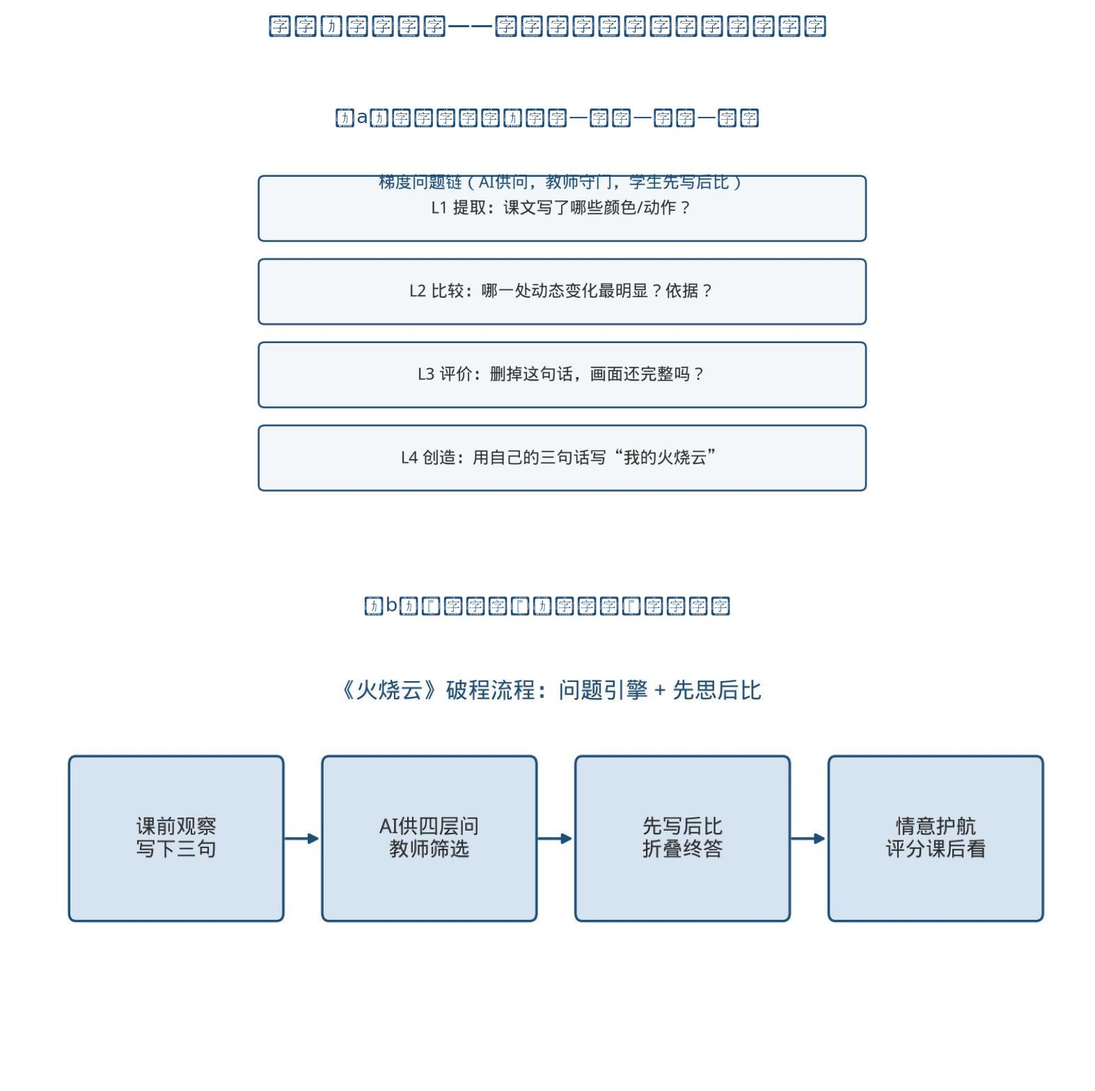
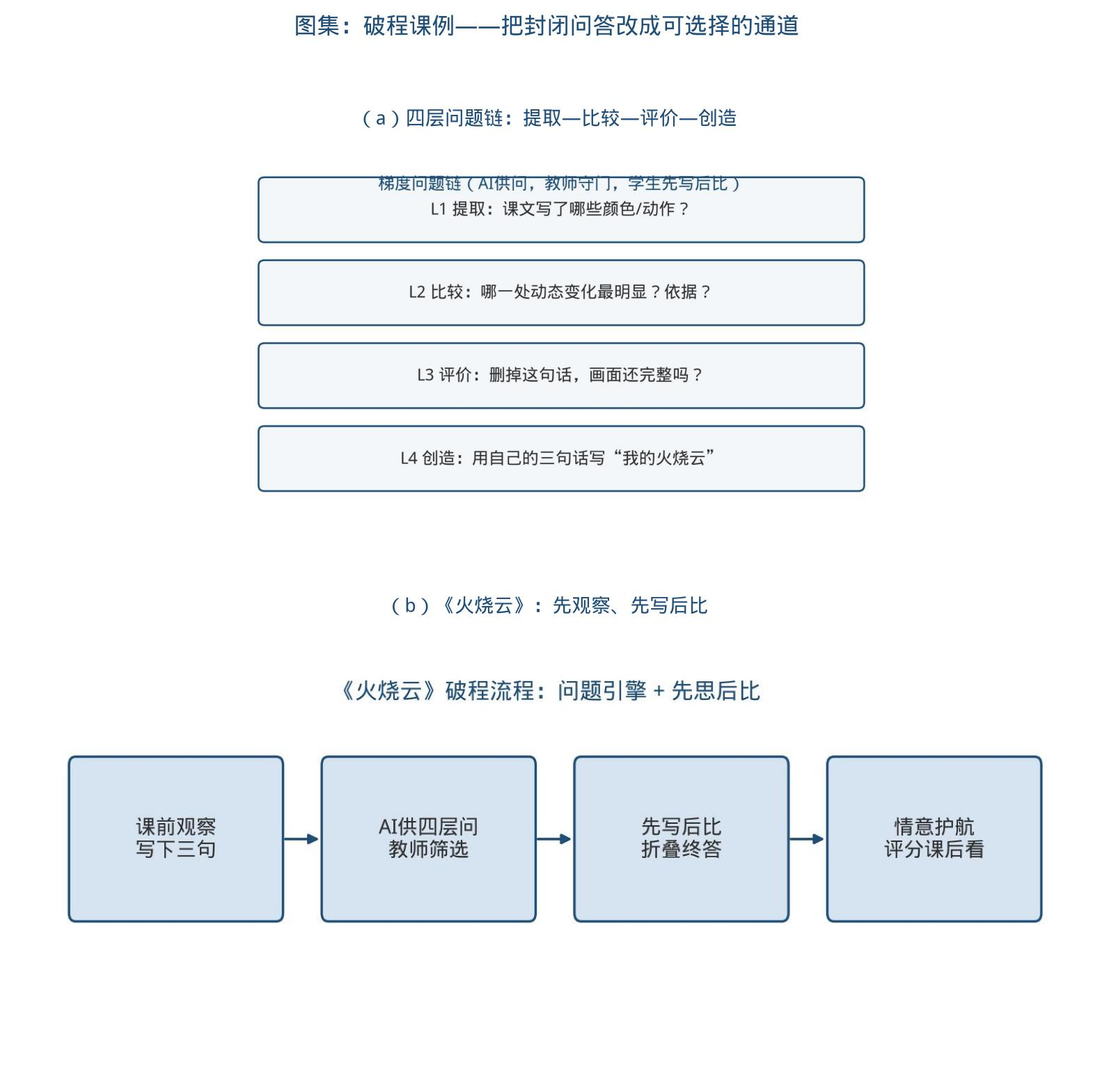
第八轮：统一图1–12序位并补教育强国文献与工具清单
理顺正文图序（含课例流程合集图11），交叉引用对齐；增补《教育强国建设规划纲要》核验条目与图表/素材来源清单；再生 paper.docx / paper_v8 与 PDF。

diff --git a/scripts/compose_plates.py b/scripts/compose_plates.py
@@ -67,6 +67,7 @@ def photo_grid(items: list[tuple[str, str]], out_name: str, title: str, cell=(92
 
 
 def mpl_grid(paths: list[str], labels: list[str], out_name: str, title: str, ncols=2, figsize=(11.2, 8.4)):
+    plt.rcParams.update({"font.family": "WenQuanYi Micro Hei", "axes.unicode_minus": False})
     n = len(paths)
     nrows = (n + ncols - 1) // ncols
     fig, axes = plt.subplots(nrows, ncols, figsize=figsize)
@@ -145,6 +146,16 @@ def compose_all() -> None:
         "plate02.jpg",
         "图集：形式—关系—技术三类失衡如何叠在一起",
         ncols=2, figsize=(11.4, 9.2),
+    )
+    mpl_grid(
+        ["fig16.jpg", "fig17.jpg", "fig18.jpg", "fig10.jpg"],
+        ["（a）《火烧云》：先观察、先写后比",
+         "（b）《守株待兔》：角色陪练与文本证伪",
+         "（c）《手指》：归集上屏、组际追问",
+         "（d）课前预学—课中互学—课后辩学闭环"],
+        "plate_flow.jpg",
+        "课例流程合集：破程、守界与全员可见的操作链",
+        ncols=2, figsize=(11.2, 9.0),
     )
     mpl_grid(
         ["fig08.jpg", "fig03.jpg", "fig12.jpg", "fig13.jpg", "fig26.jpg"],

diff --git a/失衡·校准·均衡_AI赋能小学语文三元协同师生互动优化策略.md b/失衡·校准·均衡_AI赋能小学语文三元协同师生互动优化策略.md
@@ -3,7 +3,7 @@
 
 **【摘要】**生成式人工智能进入小学语文课堂后，互动主体由“教师—学生”扩展为“教师—AI—学生”。已有研究较多讨论资源生成、分层练习与习作支架，对课堂互动的通道、权责与越位边界仍缺少可观察的校准框架。课堂观察与课例分析表明：若组织方式、权责关系与技术边界不同步调整，技术在场仍可能固化放射状问答、压缩部分学生的发言机会，并以人机输出代替概念交互与情意回应。《义务教育语文课程标准（2022年版）》强调平等对话；教育部基础教育教学指导委员会《中小学生成式人工智能使用指南（2025年版）》提出“育人为本、技术为用”，明确教师不得将生成式人工智能作为替代性教学主体，小学阶段学生不得独自使用开放式内容生成功能。本文以“问题—策略—结果”为线索，将形式、关系、技术三类失衡分别对应破程、复权、守界三阶校准，提出“三层互动×三元主体×三阶校准”模型，并给出可记录的行为编码与观察量表。本文认为：三元协同不是三方平均用力，而是使AI承担支架、教师承担引领、学生完成意义建构，推动互动由操作交互经信息交互进入概念交互，并由人守住情意回应。证据以课堂观察、课例分析与政策文本为主，公开报道数据仅作侧面说明，不外推为普遍因果效应。
 
-**【关键词】**小学语文师生互动；三元协同；生成式人工智能；互动校准
+**【关键词】**小学语文；生成式人工智能；三元协同师生互动
 
 ## 三级目录
 
@@ -17,8 +17,8 @@
 2. 表达失衡：少数独言，边缘学生持续旁观
 3. 权责模糊：技术介入，师生关系反而弱化
 （三）技术失衡：工具越位，遮蔽真实对话
-1. 替答现象：机器给解，学生跳过自主思考
-2. 替评现象：数据代言，情意回应难以替代
+1. 替答现象：工具代答，学生跳过自主思考
+2. 替评现象：数据代评，情意回应难以替代
 3. 替证现象：工具出场，被误认为课堂升级
 
 二、探究——三元协同课堂互动校准之阶
@@ -50,7 +50,7 @@
 3. 单元复盘：支架终答，对照表达循环迭代
 
 ## 一、审视——三元协同课堂互动失衡之困
-生成式人工智能进了小学语文课堂，互动主体多出一方，旧的问答结构却常常原样保留。全国教学展示课和区域第一学段阅读研讨的现场，把这一点摊得很清楚：学生仍坐成行列，目光对着屏幕或讲台，发言以举手应答为主。屏幕上可以出现谜语、任务要求和学生习作，这些只能说明信息已经公共化，不能说明对话已经转向多向。课堂互动本来就应当是双向的、连续的，人靠语言、神态和姿态去理解对方的意思，并据此调整自己的行为。学生若没有思考和表达的空隙，问题若不是从课文和生活里长出来的，教案之外冒出来的想法若接不住，互动就会退回“一问一答走流程”。本文要问的不是有没有用AI，而是谁在什么场景里缺了什么。通道打不开，发言权就会更集中；权责一模糊，生成式工具便容易把终答和评价一并接过去。所以下面先看形式，再看关系，最后看技术边界。
+生成式人工智能进入小学语文课堂后，互动主体由双方扩展为三方，既有问答结构却往往原样保留。全国教学展示课与区域第一学段阅读研讨现场均可观察到：学生仍呈行列式就座，目光朝向屏幕或讲台，发言以举手应答为主。屏幕上出现谜语、任务要求或学生习作，仅表明信息已进入公共界面，并不表明对话已转向多向。课堂互动本应是双向、连续的意义协商过程，参与者借助语言、神态与姿态理解对方意图并调整自身行为。若学生缺乏思考与表达的空隙，问题未从课文与生活中生长出来，教案之外的生成又得不到接应，互动便容易退回单向问答流程。本文追问的不是是否使用生成式人工智能，而是谁在何种场景中缺失了何种互动条件。通道不开，发言权更易集中；权责模糊，生成式工具便容易同时接管终答与评价。故下文先审形式，再审关系，最后审技术边界。
 
 ![](figures/fig01.jpg)
 
@@ -89,14 +89,14 @@
 ### （三）技术失衡：工具越位，遮蔽真实对话
 形式和关系没有校准，生成式工具就容易从支架变成越位的判断者：替学生思考，替教师判断，用人机问答充当情意交流。《中小学生成式人工智能使用指南（2025年版）》提出“育人为本、技术为用”，明确教师不得将其作为替代性教学主体，小学阶段学生不得独自使用开放式内容生成功能。UNESCO《教师人工智能能力框架》也指出，教学关系可以转为教师—AI—学生，核心仍是人的主体性。黄荣怀把数字化进阶写成环境、资源、数字教学法：停在设备在场，进不了教学法，容易高投入、低回报。
 
-#### 1. 替答现象：机器给解，学生跳过自主思考
+#### 1. 替答现象：工具代答，学生跳过自主思考
 学生对着屏幕读标准赏析，教师点头，进入下一题。主体都在场，过程没有生成。直接输出寓意、中心思想或范文，学生跳过探究与试错，概念交互被切断。这也与《使用指南》禁止把生成内容直接作为作业或考试答案的要求相悖。
 
-#### 2. 替评现象：数据代言，情意回应难以替代
+#### 2. 替评现象：数据代评，情意回应难以替代
 用机器评分、活跃度统计代替现场研判，是第二类越位。活跃度低可能是性格、准备或问题过难，一个数字代替不了。当众展示带羞辱性的语音测评分数，学生下次更倾向选择安全答案，情意互动随之收缩。
 
 #### 3. 替证现象：工具出场，被误认为课堂升级
-把是否使用生成式人工智能当作课堂先进的证明，是第三类越位。操作层流畅，不等于概念层发生。UNESCO《2023年全球教育监测报告》提醒，教育技术影响的可靠证据仍然不足，技术不能取代教与学所依赖的人际连接。情感体察和价值判断仍须由人完成。三类失衡的识别与校准指向，收在表1；现场用过的板书和记录卡，则说明支架材料本身往往是清楚的，缺的是通道和权责。
+把是否使用生成式人工智能当作课堂先进的证明，是第三类越位。操作层流畅，不等于概念层发生。《教育强国建设规划纲要（2024—2035年）》强调以教育数字化开辟发展新赛道；数字化若只停在设备与平台，而未进入教学法层面的通道、权责与边界设计，就容易出现高投入、低互动质量。UNESCO《2023年全球教育监测报告》也提醒，教育技术影响的可靠证据仍然不足，技术不能取代教与学所依赖的人际连接。情感体察和价值判断仍须由人完成。三类失衡的识别与校准指向，收在表1；结构示意见图3，现场用过的板书和记录卡见图4——支架材料往往清楚，缺的是通道和权责。
 
 **表1　三类失衡、识别信号与校准指向**
 
@@ -106,14 +106,18 @@
 | 关系失衡 | 谁拥有互动权 | 教师独问、少数独言、边缘学生旁观 | 复权之阶：归还权责 |
 | 技术失衡 | 什么可以交给AI | 替答、替评、替演、替证 | 守界之阶：限制越位 |
 
+![](figures/plate02.jpg)
+
+**图3　三类失衡合集：（a）层层加码；（b）四种越位；（c）放射状问答；（d）秧田座位如何收束发言**
+
 ![](figures/plate_scaffold.jpg)
 
-**图3　真实教学材料合集：（a）《即景》板书；（b）日落观察记录单；（c）植物记录卡；（d）《古人谈读书》板书**
+**图4　真实教学材料合集：（a）《即景》板书；（b）日落观察记录单；（c）植物记录卡；（d）《古人谈读书》板书**
 
-图3里的材料并不空洞。《即景》板书把“按一定顺序写”“写出动态变化”写在黑板上；观察记录单用简笔画记下太阳西偏、晚霞变色、渐渐落下；植物记录卡把看、闻、摸和感受分开写；《古人谈读书》板书把态度与方法收在“熟读深思”。这些都是可观察的支架。问题在于：支架上了屏、上了板，若座位和发言方向不变，课堂仍可能停在听讲。于是策略不能只谈“多用AI”，而要按通道、权责、边界拾级校准。
+图4里的材料并不空洞。《即景》板书把“按一定顺序写”“写出动态变化”写在黑板上；观察记录单用简笔画记下太阳西偏、晚霞变色、渐渐落下；植物记录卡把看、闻、摸和感受分开写；《古人谈读书》板书把态度与方法收在“熟读深思”。这些都是可观察的支架。问题在于：支架上了屏、上了板，若座位和发言方向不变，课堂仍可能停在听讲。于是策略不能只谈“多用AI”，而要按通道、权责、边界拾级校准。
 
 ## 二、探究——三元协同课堂互动校准之阶
-已有小学语文生成式人工智能研究，多做资源生成、分层练习和习作支架。王春梅概括为资源创新、方法优化与个性化学习，并指出虚假信息、思维惰化、教师角色转换困难与技术风险。贺琳珊、梅培军以童话创编为例，路径常是情境生成、即时反馈、智能评改。这些工作能降低表达门槛，却较少回答：通道如何从放射状转为多向，发言权如何回到全员，终答如何不交给机器。祝智庭的人机分工底线——机器做可重复的，人做判断的，二者结合做更合适的——要落到可观察的动作上。本文把动作写成破程、复权、守界。通道不开，复权会变成新的点名；权责不校准，守界停在口头；边界不守，前两阶都会被更流畅的标准答案吞掉。
+近年小学语文领域的生成式人工智能研究，多做资源生成、分层练习和习作支架，常见路径是情境生成、即时反馈与智能评改，也有讨论指出虚假信息、思维惰化、教师角色转换困难与技术风险。这些工作能降低表达门槛，却较少回答：通道如何从放射状转为多向，发言权如何回到全员，终答如何不交给机器。人机分工若只停留在口号，就难以观察：适合机器做的可重复劳动交给机器，适合人做的判断与情意留给人，二者结合处一起做。本文把可观察动作写成破程、复权、守界。通道不开，复权会变成新的点名；权责不校准，守界停在口头；边界不守，前两阶都会被更流畅的标准答案吞掉。
 
 **表2　已有研究关注点与本文校准指向**
 
@@ -128,11 +132,11 @@
 
 ![](figures/fig02.jpg)
 
-**图4　“三层互动×三元主体×三阶校准”理论模型**
+**图5　“三层互动×三元主体×三阶校准”理论模型**
 
 ![](figures/plate05.jpg)
 
-**图5　权责与边界合集：（a）三阶校准；（b）三元权责；（c）宜做慎做；（d）介入强度；（e）绿灯黄灯红灯**
+**图6　权责与边界合集：（a）三阶校准；（b）三元权责；（c）宜做慎做；（d）介入强度；（e）绿灯黄灯红灯**
 
 **表3　“教师—AI—学生”课堂互动权责简表**
 
@@ -148,24 +152,24 @@
 #### 1. 横向开道：梯度设问，互动得以横向展开
 少问“是不是、对不对”，改问能让学生选择思路的问题。生成式工具可以按由易到难供四层问题，教师删掉“标准答案型”设问；学生先独立写关键词、同桌互说，再全班比读；所谓“标准描写”先折叠，写完再打开对照。三年级《火烧云》可按“颜色变化—形状联想—动态用词—情感余味”供问，规则写明：问题可以借用，美文先不看。一上课就投“标准美文”，通道会立刻闭合。
 
-同一思路落到五年级《即景》，就不再从空讲“动态描写”开始。教材要求观察一种自然现象或一处景观，按一定顺序写出景物变化；学生此前已写过《这儿真美》《游　　》。课前完成观察记录单，课上先比较何为“眼前的、当下的景”，再交流心动时刻、补全题目；默读教材圈出“顺序”和“变化”；回看记录单决定时间顺序还是空间顺序；迁移《鸟的天堂》《月迹》里声音、数量、光影的写法，重点改“变化有没有写出来”。图3（b）那张日落记录单，已经用“金光四射→渐渐西偏→晚霞变色→落下去”把过程画出来了。生成式工具此时只宜给观察角度或动态动词，不宜生成成篇即景作文。图6把观察单、教材要求、学生片段和板书放在一起：材料进了公共屏幕，评改才有对象；终稿仍须学生写。
+同一思路落到五年级《即景》，就不再从空讲“动态描写”开始。教材要求观察一种自然现象或一处景观，按一定顺序写出景物变化；学生此前已写过《这儿真美》《游　　》。课前完成观察记录单，课上先比较何为“眼前的、当下的景”，再交流心动时刻、补全题目；默读教材圈出“顺序”和“变化”；回看记录单决定时间顺序还是空间顺序；迁移《鸟的天堂》《月迹》里声音、数量、光影的写法，重点改“变化有没有写出来”。图4（b）那张日落记录单，已经用“金光四射→渐渐西偏→晚霞变色→落下去”把过程画出来了。生成式工具此时只宜给观察角度或动态动词，不宜生成成篇即景作文。图7把观察单、教材要求、学生片段和板书放在一起：材料进了公共屏幕，评改才有对象；终稿仍须学生写。
 
 ![](figures/plate_break.jpg)
 
-**图6　《即景》破程合集：观察记录单、教材要求、学生片段与板书支架**
+**图7　《即景》破程合集：观察记录单、教材要求、学生片段与板书支架**
 
 #### 2. 全员入场：分层驱动，主体得以全面进入
 空间上打开还不够，任务也要分层，让不同学生都有事可做。低年级宜同桌互说互查；高年级宜小组兼组际。工具进课堂要有顺序：先明确任务，再决定何时调用，何时必须回到文本和同伴。
 
 四年级《我们家的男子汉》可设三层任务：A层找出写言行的句子并朗读，B层讨论为何用这一称呼，C层写“我们家的——”。提示卡不含现成赏析。课后“我与AI辩论”须在教师组织下进行：学生先写约100字，再对照生成文字标出同意、不同意、课文里有没有证据。A层同样要被追问“为什么这样读”，分层不是降要求。
 
-三年级《我的植物朋友》难在观察角度单一、不会把记录卡连成文。教材本身就是三步：课前做记录卡，课中借助卡来写，课后修改并交流。课上先分享卡、交流“从哪些方面观察”，再补充记录卡，然后选一两个方面化卡为文，写清楚观察到的，试着写出感受。关联《荷花》的多感官写法，把看、闻、摸变成可选路径。图3（c）里，学生已经把“红透了的辣椒”和“茎叶硬硬的、会闭合”写进卡；图7（b）板书把“写清楚、多角度、有感受”立在黑板上。生成式工具可以提示角度或把口语转成提纲，终稿必须学生完成。区域习作集备提出的“赋能·分层·共生”，说的也是支架分层供给、互评修改共生，而不是用同一篇范文覆盖全班。
+三年级《我的植物朋友》难在观察角度单一、不会把记录卡连成文。教材本身就是三步：课前做记录卡，课中借助卡来写，课后修改并交流。课上先分享卡、交流“从哪些方面观察”，再补充记录卡，然后选一两个方面化卡为文，写清楚观察到的，试着写出感受。关联《荷花》的多感官写法，把看、闻、摸变成可选路径。图4（c）里，学生已经把“红透了的辣椒”和“茎叶硬硬的、会闭合”写进卡；图8（b）板书把“写清楚、多角度、有感受”立在黑板上。生成式工具可以提示角度或把口语转成提纲，终稿必须学生完成。区域习作集备提出的“赋能·分层·共生”，说的也是支架分层供给、互评修改共生，而不是用同一篇范文覆盖全班。
 
-低段更不宜一上来“人机辩论”。《棉花姑娘》要落实的是读好请求语气，角色扮演比生成解释更要紧；《大象的耳朵》抓住问号、语气词读对话，四人一组扮演大象与小动物，学生之间开始一问一答。图7（d）里，横向通道出现在角色之间，而不是出现在屏幕上的标准答案里。图画和情境是帮手，不是主角。判断标准是：学生是否更愿意读、更敢于说。
+低段更不宜一上来“人机辩论”。《棉花姑娘》要落实的是读好请求语气，角色扮演比生成解释更要紧；《大象的耳朵》抓住问号、语气词读对话，四人一组扮演大象与小动物，学生之间开始一问一答。图8（d）里，横向通道出现在角色之间，而不是出现在屏幕上的标准答案里。图画和情境是帮手，不是主角。判断标准是：学生是否更愿意读、更敢于说。
 
 ![](figures/plate_write.jpg)
 
-**图7　化卡为文与低段横向通道：（a）（b）（c）《我的植物朋友》；（d）《大象的耳朵》角色扮演**
+**图8　化卡为文与低段横向通道：（a）（b）（c）《我的植物朋友》；（d）《大象的耳朵》角色扮演**
 
 #### 3. 生成入课：偏差接住，课堂得以容纳意外
 备课宜粗备框架、细留空间。课中出现教案外的问题，可以调用工具获取多角度参考，但不宣读答案，而把它变成研讨引子。接住的标志是：把学生的那句话写上黑板，追问课文里有没有依据，再决定要不要补材料。
@@ -187,14 +191,14 @@
 | 表达交流 | “帮我写一段关于××的话。” | “我的这段文字，哪里写得还不够清楚？” |
 | 校验信息 | “你说得对吗？” | “你的依据在课文哪一句？我能不能找到反例？” |
 
-《古人谈读书》说理性强，语录句之间关联不高，学生不容易主动联系自己的读书生活。课上可把提问权前移：同桌互读互评，读准“知、识、诲”，读好长句停顿；自读提出疑问，借助注释在小组内理解大意；用表格梳理朱熹“心到、眼到、口到”；最后联系自己的读书体会说启发，把喜欢的句子抄到书签上。图8（a）屏幕写的是“学习活动一：读熟孔子语录，同桌互读互评”，任务已经指向同伴；图8（b）学生持麦解释，教师侧立。生成式工具可以提供注释对照或停顿示例，不能代替学生说出“我读到了什么、以后怎么读”。
+《古人谈读书》说理性强，语录句之间关联不高，学生不容易主动联系自己的读书生活。课上可把提问权前移：同桌互读互评，读准“知、识、诲”，读好长句停顿；自读提出疑问，借助注释在小组内理解大意；用表格梳理朱熹“心到、眼到、口到”；最后联系自己的读书体会说启发，把喜欢的句子抄到书签上。图9（a）屏幕写的是“学习活动一：读熟孔子语录，同桌互读互评”，任务已经指向同伴；图9（b）学生持麦解释，教师侧立。生成式工具可以提供注释对照或停顿示例，不能代替学生说出“我读到了什么、以后怎么读”。
 
 #### 2. 边缘可见：观点上屏，打破持续旁观格局
-破解垄断，不是多点几个名字，而是让每个想法被看见。投屏不是展览，而是下一轮对话的起点。三年级《这儿真美》一类课，可用教材例文学“围绕一个意思写”，再用量规组织练笔和修改，使边缘学生按可见标准进入表达。图8（d）里，例文上了屏，学生已经在本子上写；教师的工作是组织比较和修改，而不是把范文读完了事。《手指》一课则把各组关键词归集投屏，先请一组说归类理由，再请另一组补充或反驳，最后为关键词找课文依据。归集可以交给工具，冲突处理仍是教师的专业工作。
+破解垄断，不是多点几个名字，而是让每个想法被看见。投屏不是展览，而是下一轮对话的起点。三年级《这儿真美》一类课，可用教材例文学“围绕一个意思写”，再用量规组织练笔和修改，使边缘学生按可见标准进入表达。图9（d）里，例文上了屏，学生已经在本子上写；教师的工作是组织比较和修改，而不是把范文读完了事。《手指》一课则把各组关键词归集投屏，先请一组说归类理由，再请另一组补充或反驳，最后为关键词找课文依据。归集可以交给工具，冲突处理仍是教师的专业工作。
 
 ![](figures/plate_voice.jpg)
 
-**图8　复权合集：（a）（b）（c）《古人谈读书》；（d）《这儿真美》按支架动笔**
+**图9　复权合集：（a）（b）（c）《古人谈读书》；（d）《这儿真美》按支架动笔**
 
 #### 3. 三元归位：人守判断，防止关系再度弱化
 课堂上是否复位，看两个瞬间：学生说出与预设不同的答案时，教师是接住还是绕开；生成式工具给出看似标准的解读时，教师是宣读还是追问。《守株待兔》可不急于揭示“不可心存侥幸”，先让学生用自己的话说故事，再请工具扮演“守株人”辩解，学生追问庄稼谁来种、兔子会不会再来。工具只负责把问题归类投屏，教师抓住“侥幸—劳动—事理”组织对话。生成文本可以连贯，但不等于课文意义本身。判断仍须放到文本证据里，由学生比照、质疑、论证。关系校准之后，还要把终答和评分从机器手里拿回来。
@@ -203,7 +207,7 @@
 对应技术失衡。通道有了，权责明了，若没有不可逾越的边界，工具仍会以更精致的方式替答、替评、替证。
 
 #### 1. 禁替终答：先思后比，守住自主思考过程
-可以给问题、给材料、给归集，不可以给本课终答。“标准赏析”折到学生独立表达之后，只作对照。习作同样：角度、情节提示、病句提醒可以生成，成篇文字须学生完成。这与小学阶段限制独自开放生成、禁止复制生成内容作为作业答案相一致，也针对“照抄生成结构与语句”的惰化风险。图6、图7里的观察单和记录卡，正是“卡可生成、文须人写”的现场注脚。
+可以给问题、给材料、给归集，不可以给本课终答。“标准赏析”折到学生独立表达之后，只作对照。习作同样：角度、情节提示、病句提醒可以生成，成篇文字须学生完成。这与小学阶段限制独自开放生成、禁止复制生成内容作为作业答案相一致，也针对“照抄生成结构与语句”的惰化风险。图7、图8里的观察单和记录卡，正是“卡可生成、文须人写”的现场注脚。
 
 #### 2. 护航情意：出错先护，评分不得当众惩戒
 学生读错、说错时，先护住再回到文本。当众不展示带羞辱性的机器分数；先问“你刚才看到了什么／想到了什么”，再范读或同伴带读；分数留到课后单独看，与自己的下一次进步对照，不与全班排名对照。《火烧云》朗读里若有学生把比喻读破，语音测评分数再低，也不投到全班眼前。先问颜色、肯定观察，再带着读。机器评价一旦当众生效，学生下次会更倾向安全答案。
@@ -213,9 +217,9 @@
 
 ![](figures/plate09.jpg)
 
-**图9　守界课例合集：（a）《守株待兔》流程；（b）生成句上屏后必须被追问**
+**图10　守界课例合集：（a）《守株待兔》流程；（b）生成句上屏后必须被追问**
 
-提问句式、倾听规则和“先找课文、再看机器”，宜做成单元常规。各课例的人机分工收在表5。
+提问句式、倾听规则和“先找课文、再看机器”，宜做成单元常规。各课例的人机分工收在表5；《火烧云》《守株待兔》《手指》及课前—课中—课后闭环的流程示意见图11。
 
 **表5　主要课例的三元分工与互动升级点**
 
@@ -232,6 +236,10 @@
 | 《我们家的男子汉》 | 三层任务＋课后辩论 | 分层提示卡 | 由课中互动转向链环互动 |
 | 《这儿真美》《奇妙的想象》 | 写作支架＋评价量规＋互评 | 不提供范文终稿 | 由教师改文转向学生修改 |
 
+![](figures/plate_flow.jpg)
+
+**图11　课例流程合集：（a）《火烧云》；（b）《守株待兔》；（c）《手指》；（d）课前—课中—课后闭环**
+
 ## 三、反思——三元协同课堂互动均衡之效
 校准有没有效，不能只看这节课用不用生成式人工智能，而要同时看证据等级，并按过去、现在、未来来说。证据分三层：行为上是否覆盖提问、同伴追问、校验生成内容；过程上是否使用文本证据、是否修改与质疑；结果上表达、理解、朗读、兴趣是否变化。本文用课例分析、课堂观察、政策文本和文献对读，课例来自统编教材常态课、全国教学展示和区域阅读研讨、习作集备，只讨论教学设计与互动结构，不标注执教者个人身份。观察用于识别结构，不作未交代样本的统计推断。公开报道中的准确率标明来源，不作为本文实验数据。
 
@@ -239,19 +247,19 @@
 就已开展的课例与观察而言，能说的是结构与行为的变化方向，不是未完成抽样设计的参数估计。
 
 #### 1. 行为证据：覆盖提问，同伴追问开始出现
-过去，放射状问答使部分学生整节课缺少有效发言，小组里一人说、众人听。现在，《即景》用观察记录单让每个学生课前就有话可写；《我的植物朋友》让记录卡进入公共屏幕；《古人谈读书》用同桌互读把第一轮发言交给同伴；《大象的耳朵》用角色扮演让学生互相问答。内向学生不必第一时间当众成段发言，也可以经由卡片、小组和扮演被看见。覆盖的意义不在热闹，而在边缘学生不再被固定排除。图2说明旧通道仍在，图7、图8说明新通道可以出现——二者要对照着看，不能用展示课照片证明问题已经消失。
+过去，放射状问答使部分学生整节课缺少有效发言，小组里一人说、众人听。现在，《即景》用观察记录单让每个学生课前就有话可写；《我的植物朋友》让记录卡进入公共屏幕；《古人谈读书》用同桌互读把第一轮发言交给同伴；《大象的耳朵》用角色扮演让学生互相问答。内向学生不必第一时间当众成段发言，也可以经由卡片、小组和扮演被看见。覆盖的意义不在热闹，而在边缘学生不再被固定排除。图2说明旧通道仍在，图8、图9说明新通道可以出现——二者要对照着看，不能用展示课照片证明问题已经消失。
 
 #### 2. 过程证据：文本作证，概念交互开始发生
-过去，互动在“找出关键词、齐答道理”的信息层循环。现在，《守株待兔》用课文证伪流畅的“正能量改写”；《即景》先观察、先写后改，不把机器美文当范本；《我的植物朋友》把看闻摸的记录化成有感受的连贯表达；《古人谈读书》让学生提出疑问并联系自己的读书生活。这些行为落在分析、评价、质疑区间，是信息交互向概念交互的移动。图3、图6中的记录单和板书，是过程证据的物证：变化有没有写出来，可以拿卡和文对照，而不必先问机器。
+过去，互动在“找出关键词、齐答道理”的信息层循环。现在，《守株待兔》用课文证伪流畅的“正能量改写”；《即景》先观察、先写后改，不把机器美文当范本；《我的植物朋友》把看闻摸的记录化成有感受的连贯表达；《古人谈读书》让学生提出疑问并联系自己的读书生活。这些行为落在分析、评价、质疑区间，是信息交互向概念交互的移动。图4、图7中的记录单和板书，是过程证据的物证：变化有没有写出来，可以拿卡和文对照，而不必先问机器。
 
 #### 3. 结果证据：公开案例，仅作侧面增量说明
 第三层结果，本文不以自制前后测冒充实验。侧面说明可引用已公开报道：北京师范大学京师附属小学在三年级《在牛肚子里旅行》等相关朗读实践中，报道称一篇课文预习的班级平均发音准确率由初测82%提升至课后测94%，并强调教师据此把握共性问题、组织课堂指导。该数据只说明AI可承担可重复的朗读反馈、教师仍须组织教学与情感回应，不能推广到阅读鉴赏或习作。区域科学课里智能体做组间互评，评价标准仍由教师定，语文课同样：归集可以交给机器，判断必须留在人。
 
 ### （二）问题检视：技术惯性，情意回应尚有缺口
-均衡是目标，不是已经完成的状态。图2里的行列式和图7（d）里的扮演同时存在，说明缺口还没有闭合。
+均衡是目标，不是已经完成的状态。图2里的行列式和图8（d）里的扮演同时存在，说明缺口还没有闭合。
 
 #### 1. 惯性犹在：给终答易，给支架难成习惯
-公开课上教师能守住“不给终答”；日常进度压力下，仍容易随手投出标准解读，换取“这节课讲完了”。给支架更费时间：要筛选问题、折叠答案、组织比读。技术惯性叠上进度焦虑，破程会回潮为更精致的程式化。图6（c）学生片段上了屏，若评改仍由教师宣读标准句，通道等于没开。
+公开课上教师能守住“不给终答”；日常进度压力下，仍容易随手投出标准解读，换取“这节课讲完了”。给支架更费时间：要筛选问题、折叠答案、组织比读。技术惯性叠上进度焦虑，破程会回潮为更精致的程式化。图7（c）学生片段上了屏，若评改仍由教师宣读标准句，通道等于没开。
 
 #### 2. 素养落差：会操作易，会追问难成全员
 学生会打开平台、会输入关键词，不等于会问“这句话如果删掉会怎样”。提问句式在部分课例中有效，尚未变成年级常规；有的学生仍把工具当成代写器。全员可见若只停留在“屏幕上有名字”，复权就停在工具层，进不了素养层。
@@ -263,7 +271,7 @@
 下一步不是另立提法，而是把已经有效的校准做成不同课型可执行、每单元可复盘的日常。
 
 #### 1. 课型分责：分型定界，识写表达各守边界
-识字写字重情境与即时反馈，阅读鉴赏重问题与可视思维，口语交际重真实交流，习作重独立表达与修改，综合实践重真实探究。终答、范写、价值判断一律留在人这边。图5（e）的绿灯、黄灯、红灯，可直接贴进教研评课。
+识字写字重情境与即时反馈，阅读鉴赏重问题与可视思维，口语交际重真实交流，习作重独立表达与修改，综合实践重真实探究。终答、范写、价值判断一律留在人这边。图6（e）的绿灯、黄灯、红灯，可直接贴进教研评课。
 
 **表6　课型适配矩阵（策略落地总表）**
 
@@ -280,7 +288,7 @@
 
 ![](figures/plate10.jpg)
 
-**图10　成效与观察工具合集：（a）公开朗读反馈（非本文实验）；（b）六维观察示意；（c）T/S/AI编码**
+**图12　成效与观察工具合集：（a）公开朗读反馈（非本文实验）；（b）六维观察示意；（c）T/S/AI编码**
 数据来源：首都之窗等对京师附小相关教学展示的公开报道。
 
 **表7　AI赋能小学语文课堂互动质量观察量表**
@@ -320,7 +328,7 @@
 | 生成处理 | 教案之外的生成是否被接住 |  |  |
 | 证据层级 | 本课主要获得的是行为、过程还是结果证据 |  |  |
 
-三元协同是否成立，最终看三件事是否同时改善：发言覆盖是否拓宽，互动是否由信息层进入概念层，情意回应是否仍由人承担。图2提醒旧结构还在，图3、图6、图7、图8提供了可以接着做的支架与现场。校准按破程、复权、守界往下走；均衡是阶段性改善，缺口还要靠单元复盘去收。
+三元协同是否成立，最终看三件事是否同时改善：发言覆盖是否拓宽，互动是否由信息层进入概念层，情意回应是否仍由人承担。图2提醒旧结构还在，图4、图7、图8、图9提供了可以接着做的支架与现场；图11把课例流程收束为可复用的操作链。校准按破程、复权、守界往下走；均衡是阶段性改善，缺口还要靠单元复盘去收。
 
 ## 参考文献
 [1] 中华人民共和国教育部. 义务教育语文课程标准（2022年版）[S]. 北京：北京师范大学出版社，2022.
@@ -347,3 +355,4 @@
 [22] UNESCO. Global education monitoring report 2023: Technology in education — A tool on whose terms?[R]. Paris: UNESCO, 2023.
 [23] 王春梅. 生成式人工智能赋能小学语文教学的探索[J]. 实验教学与仪器，2025，42(8)：141-144.
 [24] 贺琳珊，梅培军. 生成式人工智能赋能小学语文习作教学模式探索——以文心一言辅助《我来编童话》习作教学为例[J]. 中小学课堂教学研究，2025(3)：48-53.
+[25] 中共中央，国务院. 教育强国建设规划纲要（2024—2035年）[Z/OL]. (2025-01-19)[2026-09-16]. https://www.gov.cn/zhengce/202501/content_6999913.htm.

diff --git a/图表与工具清单.md b/图表与工具清单.md
@@ -1,0 +1,71 @@
+# 图表与工具清单（配套学位论文）
+
+正文以主题合集为主，避免一张一放；下列 20 项覆盖理论、诊断、策略、评价与课例，供制图与答辩对照。无实测数据的条目标注“示意/工具”。
+
+| 序号 | 图名 | 类别 | 目的 | 数据来源 | 类型 | 文中位置 |
+| --- | --- | --- | --- | --- | --- | --- |
+| 1 | 教学交互层次模型 | 理论 | 操作→信息→概念，并守住情意 | 示意（陈丽层次迁移） | 分层结构图 | 图1 |
+| 2 | 课堂现场合集 | 问题诊断 | 座位朝向与发言方向 | 公开教学展示/区域研讨照片 | 四联照片 | 图2 |
+| 3 | 三类失衡结构合集 | 问题诊断 | 形式—关系—技术层层加码 | 示意 | 链式+网络 | 图3 |
+| 4 | 真实教学材料合集 | 策略/物证 | 板书、观察单、记录卡 | 公开课例材料照片 | 四联材料 | 图4 |
+| 5 | 三层×三元×三阶理论模型 | 理论 | 全文核心框架 | 示意 | 结构图 | 图5 |
+| 6 | 权责与边界合集 | 策略 | 阶梯、权责、宜做慎做、介入强度、红黄绿灯 | 示意+政策 | 合集 | 图6 |
+| 7 | 《即景》破程合集 | 实践案例 | 观察所得进课堂、终稿学生完成 | 公开课例照片 | 四联 | 图7 |
+| 8 | 化卡为文与低段通道合集 | 实践案例 | 记录卡→表达；角色扮演横向问答 | 公开课例照片 | 四联 | 图8 |
+| 9 | 复权合集 | 实践案例 | 同桌互读、持麦解释、按支架动笔 | 公开课例照片 | 四联 | 图9 |
+| 10 | 守界课例合集 | 策略 | 角色陪练+据文追问 | 示意 | 流程+对话 | 图10 |
+| 11 | 课例流程合集 | 策略实施 | 火烧云/守株待兔/手指/三段闭环 | 示意 | 流程合集 | 图11 |
+| 12 | 成效与观察工具合集 | 数据评价 | 公开朗读反馈、六维雷达、T/S/AI编码 | 公开报道+工具示意 | 合集 | 图12 |
+| 13 | 放射状 vs 多回路网络 | 问题诊断 | 互动结构对比 | 示意 | 网络图 | 含于图3 |
+| 14 | AI越位四表现 | 问题诊断 | 替答替评替演替证 | 示意 | 结构图 | 含于图3 |
+| 15 | 秧田/围坐通道对照 | 问题诊断 | 座位如何收束发言 | 示意 | 对照图 | 含于图3 |
+| 16 | 梯度问题链 | 策略 | AI供问、教师守门、先写后比 | 示意 | 层级图 | 含于图11相关脚本 |
+| 17 | 学生提问支架转向 | 策略 | 不索要终答 | 示意 | 对照图 | 脚本 fig11 |
+| 18 | AI介入强度—主体性 | 评价 | 适切区间示意 | 示意 | 坐标图 | 含于图6 |
+| 19 | 课型宜做禁做 | 策略 | 五类课型边界 | 示意 | 矩阵可视化 | 脚本 fig28 |
+| 20 | 公开朗读准确率柱图 | 数据 | 侧面说明可重复反馈 | 公开报道（非本文实验） | 柱状图 | 含于图12 |
+
+## Mermaid 草图（可再绘）
+
+```mermaid
+flowchart TD
+  T[教师：引领·判断·情意] --> S[学生：建构·表达·质疑]
+  T --> AI[AI：支架·归集·提示]
+  AI --> S
+  S --> S
+  S --> T
+```
+
+```mermaid
+graph LR
+  A[操作交互] --> B[信息交互] --> C[概念交互] --> D[情意回应·人守]
+```
+
+```mermaid
+flowchart LR
+  F[形式失衡] --> R[关系失衡] --> Tech[技术失衡]
+  F -.-> 破程
+  R -.-> 复权
+  Tech -.-> 守界
+```
+
+## 配套表格（已入正文）
+
+- 表1 三类失衡识别与校准
+- 表2 已有研究与本文校准
+- 表3 三元权责简表
+- 表4 学生向AI提问支架句式
+- 表5 课例三元分工
+- 表6 课型适配矩阵
+- 表7 七维观察量表（0–3分）
+- 表8 课中观察简表（编码摘记）
+- 表9 课后循证复盘记录表
+
+## 编码定义（摘要）
+
+| 代码 | 定义 |
+| --- | --- |
+| T1–T5 | 提问、追问、反馈、情感支持、价值判断 |
+| S1–S6 | 回答、提问、补充、质疑、合作、创造 |
+| AI1–AI5 | 生成、归集、提示、反馈、可视化 |
+| 互动链 | T→S；T→AI→S；S→AI→S；S→S；T→S→T |

diff --git a/图像素材来源.md b/图像素材来源.md
@@ -1,0 +1,26 @@
+# 图像素材来源清单
+
+论文图注只写教学动作，不写执教者个人身份。下列 URL 为公开微信推文/报道页面，供核验与答辩备查。提取时已对重复页图做 MD5 去重。
+
+| 素材用途 | 课例/主题 | 来源标题（公开推文） | URL |
+| --- | --- | --- | --- |
+| 图2（a）谜语投屏、字卡 | 《棉花姑娘》 | 余杭区小学语文第一学段阅读教学研讨暨新教师培训 | https://mp.weixin.qq.com/s/2fOMQ-dxbjOAd5m6iDIwoQ |
+| 图2（b）举手应答；图8（d）角色扮演 | 《大象的耳朵》 | 同上 | https://mp.weixin.qq.com/s/2fOMQ-dxbjOAd5m6iDIwoQ |
+| 图2（c）（d）；图4；图7；图8（a–c） | 《即景》《我的植物朋友》 | 全国第五届小学青年教师语文教学展示与观摩（小语名师联盟） | https://mp.weixin.qq.com/s/RHZ6QC417lQDYHWVjg2tYQ ；https://mp.weixin.qq.com/s/v5sMHaH7byxH1EKt26elmA |
+| 图4（d）；图9（a–c） | 《古人谈读书》 | 全国第五届小学青年教师语文教学展示与观摩 | https://mp.weixin.qq.com/s/1JsoPGP5beyHc7oIzXki-Q |
+| 图9（d）《这儿真美》 | 习作同课异构 | 余杭区街道五校语文集体备课 | https://mp.weixin.qq.com/s/TIYPfaH6pv-NiNH56_xwlQ |
+| 区域习作集备语境 | 赋能·分层·共生 | 余杭街道小学语文五校联合集备展示 | https://mp.weixin.qq.com/s/FZoW48ckq8jINXduCuInyw |
+| 图12（a）朗读反馈柱图 | 京师附小公开报道 | 首都之窗/北京市人民政府相关报道 | https://www.beijing.gov.cn/ywdt/gqrd/202512/t20251224_4360512.html |
+| 政策文本核验 | 《教育强国建设规划纲要（2024—2035年）》 | 中国政府网 | https://www.gov.cn/zhengce/202501/content_6999913.htm |
+
+## 结构示意图
+
+`figures/fig01.jpg`–`fig28.jpg`、`plate*.jpg`、`plate_flow.jpg` 由 `scripts/draw_figures.py`、`scripts/compose_plates.py` 原创绘制，属示意/工具图，非外部摄影版权素材。图3、图5、图6、图10、图11、图12 中的结构板均属此类。
+
+## 检索备用查询（公开课堂场景）
+
+1. 小学语文 AI 课堂互动 实拍  
+2. 师生机 三元协同 智慧课堂  
+3. 生成式 AI 课堂 提问 环节  
+4. 小学语文 AI 写作 课堂图片  
+5. 小学语文 观察记录单 习作 板书  
